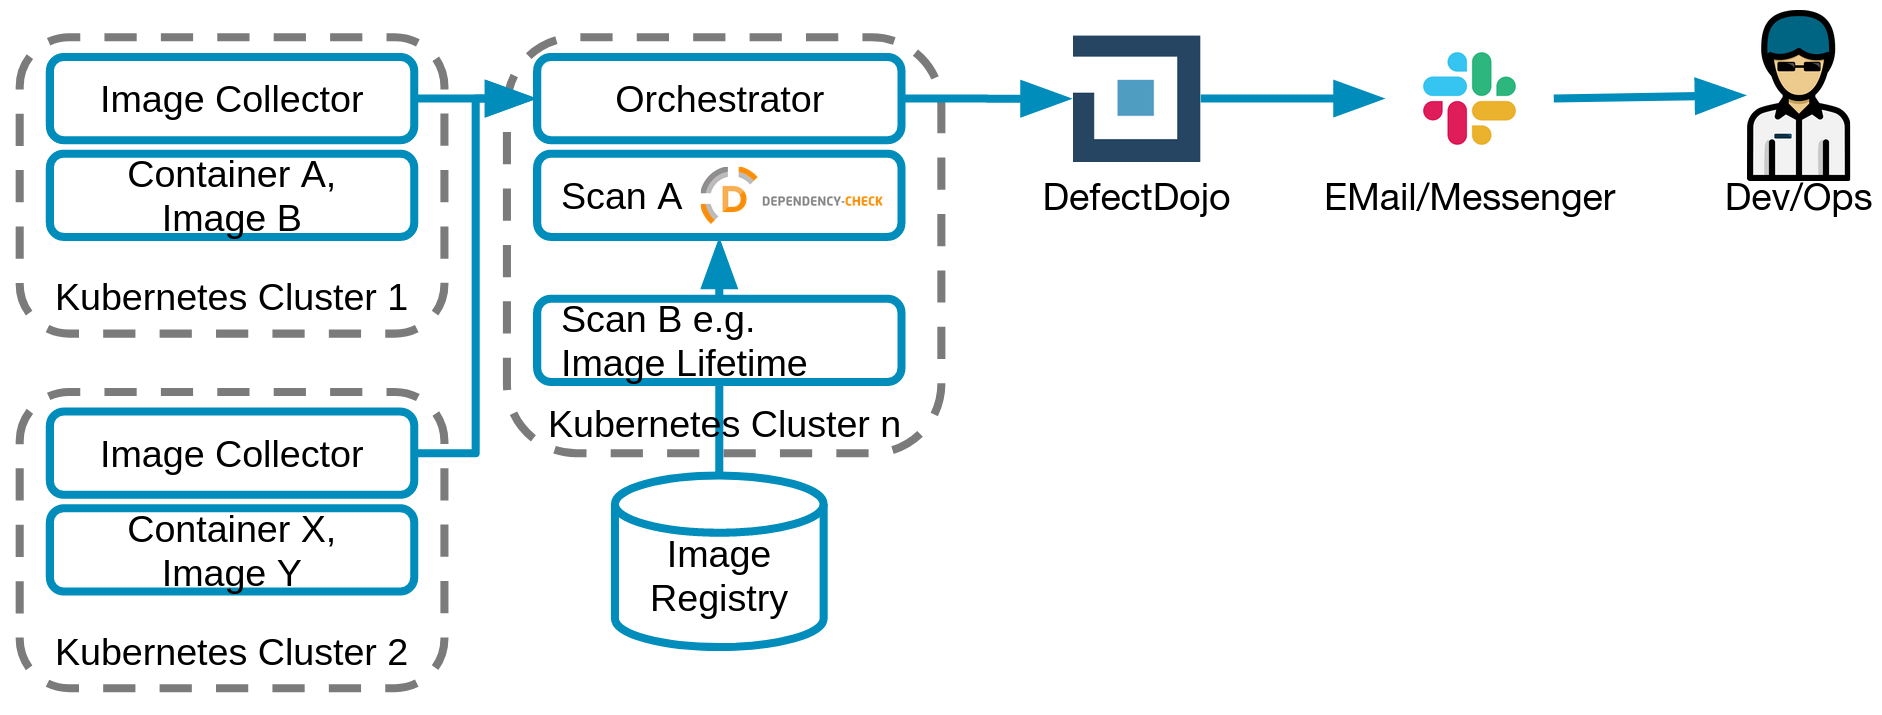
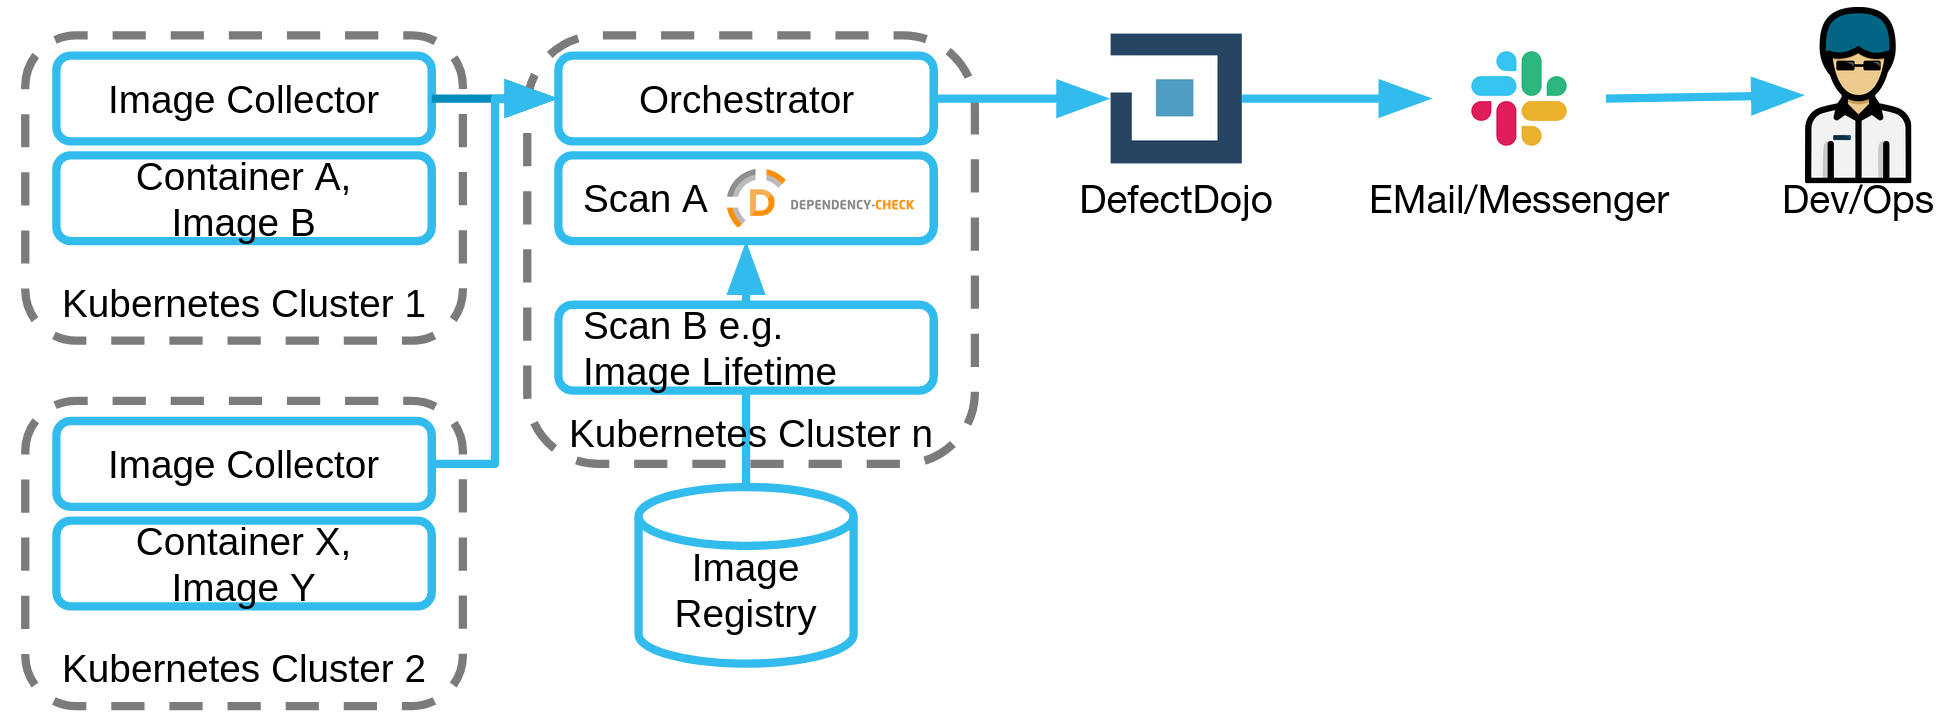
chore: Enhance documentation

diff --git a/README.md b/README.md
@@ -5,20 +5,41 @@
 Discover vulnerabilities and container image misconfiguration in production environments.
 
 # Introduction
-The Cluster Scanner detects images in a Kubernetes cluster and provides fast feedback based on various security tests. It is recommended to run the Cluster Scanner in production environments in order to get up-to-date feedback on security issues where they have real impact.
+The Cluster Scanner detects images in a Kubernetes cluster and provides fast feedback based on various security tests. It is recommended to run the Cluster Scanner in production environments in order to get up-to-date feedback on security issues where they have real impact.
 
 Since the Cluster Scanner itself is a service running within your Kubernetes cluster you can re-use your existing deployment procedures.
 # Overview
-In order to achieve an understanding of the cluster scanning process, this page uses a chart and detailed documentation to describe which factors are involved and in which way.
-1. The Image Collector, as the name suggests, collects the different images.
-2. These images can be passed to the Fetcher via the Cluster Scan, via the GitOps process, or manually. The Fetcher then converts the CSV files into JSON files and provides additional fields with information about clusters, teams and images.
-3. These files are kept in a separate directory and from there they are passed to the scanner.
-4. This scanner - which then receives the libraries to be ignored via the suppressions file - then executes the scans described in the definitions of Dependency Check, Lifetime, Virus and further more.
-5. The vulnerability management system (in our case [OWASP DefectDojo](https://github.com/DefectDojo/django-DefectDojo)) then collects the results and makes them available to the developers via Slack.
+The following figure provides an overview:
+![Overview](docs/images/overview.png)
+The following steps are conducted.
+1. The Image Collector, as the name suggests, collects the different images from a container environment like a kubernetes cluster. The Collector creates a JSON file and including information like the cluster, the responsible team, and image.
+2. The Orchestrator (implemented via ArgoWorkflows) starts the workflow periodically (e.g. nightly)
+3. The images from the Collector can be pulled by the Image Fetcher 
+4. These files are kept in a separate directory and from there they are passed to the scanner
+5. This scanner - which then receives the libraries to be ignored via the suppressions file - then executes the scans described in the definitions of Dependency Check, Lifetime, Virus and further more.
+6. The vulnerability management system (in our case [OWASP DefectDojo](https://github.com/DefectDojo/django-DefectDojo)) then collects the results 
+7. Non responded to findings are made available to the developers via a communication channel (Slack/Email).
+
 ## Table of Contents
 - [User documentation](docs/user)
 - [Architecture and Decisions](docs/architecture)
 - [Operator documentation](docs/deployment)
+
+# Images
+Images to be used by ArgoWorkflows are published in quay.io (2021-06-28):
+
+- `quay.io/sdase/clusterscanner-scan-dependency-check`
+- `quay.io/sdase/clusterscanner-scan-runasroot`
+- `quay.io/sdase/clusterscanner-scan-distroless`
+- `quay.io/sdase/clusterscanner-scan-lifetime`
+- `quay.io/sdase/clusterscanner-imagefetcher`
+- `quay.io/sdase/clusterscanner-notifier`
+- `quay.io/sdase/clusterscanner-imagecollector`
+- `quay.io/sdase/clusterscanner-image-source-fetcher`
+- `quay.io/sdase/clusterscanner-workflow-runner`
+- `quay.io/sdase/clusterscanner-notifier-slack`
+
+`quay.io/sdase/clusterscanner-base` is the base for other images.
 
 # Legal Notice
 The purpose of the ClusterScanner is not to replace the penetration testers or make them obsolete. We strongly recommend to run extensive tests by experienced penetration testers on all your applications.

diff --git a/docs/user/scans/README.md b/docs/user/scans/README.md
@@ -1,5 +1,3 @@
-The search for vulnerabilities has a very high priority in IT security. We use automated tools that perform scans to detect vulnerabilities and help to respond to findings.
-
 Software and infrastructure are potential points of attack. Such attacks can lead to damages, financial losses due to failures or recourse claims from customers, and more. There are various forms of investigations that protect against such threats. Manual searches for these vulnerabilities and points of attack require a great deal of effort and tie up staff in the execution. Automated scanning reduces effort and minimizes errors such as forgotten tests. The different types of scanning used, their significance, and possible reactions to the results are listed below.
 
 # Types of Scans
@@ -8,10 +6,9 @@ There are a number of different types of scans that can produce different findin
 - [Distroless](distroless.md)
 - [Image Lifetime](image-lifetime.md)
 - [Known Vulnerabilities](known-vulnerabilities.md)
-- [Malware](malware.md)
 - [Root-User](run-as-root.md)
 
-# Response to findings
+# Responses to Findings
 When a finding is detected, the first step is to perform an analysis. The following treatments can be used for this:
 
 - Avoidance: Remove the component with the threat/vulnerability.
@@ -19,4 +16,5 @@ When a finding is detected, the first step is to perform an analysis. The follow
 - Acceptance: Accept a vulnerability. In DefectDojo, the vulnerability needs to be manually marked as Accepted.
 - False Positive: The finding doesn't apply. In DefectDojo, the vulnerability can be manually marked as False Positive.
 
+Not all responses apply to all scans. In the scan descriptions, the possible responses are described.
 We use OWASP DefectDojo as vulnerability management system to combine the findings of different tools. All described, scans are implemented by the _Cluster Scanner_.

diff --git a/docs/architecture/collector.md b/docs/architecture/collector.md
@@ -1,16 +1,12 @@
 # ClusterScanner Image Collector
-The fetcher “ClusterScanner Image Collector” fetches images from a cluster. This page presents the collection process and the threat model of the process.
-
-The fetcher “ClusterScanner Image Collector” is deployed in a Kubernetes cluster and needs to have read access on all pods. Therefore, it has a high protection requirement and a threat model has been created.
+The _ClusterScanner Image Collector_ collectors images from a cluster.
 
 ## Solution Overview
 ![Overview](images/collector.png)
-The Cluster Scan Image Collector gets pods, parse the pod descriptions and, extracts namespaces and images, including image tags and hashes. Because mutable images (e.g. lastest) might be used, the image hash is gathered in case it is available. The image hash is not available for nonrunning cronjobs with history enabled. To get pods from within a container in a cluster, kubectl is used and defined in _entrypoint.bash_ like the following:
+The Cluster Scan Image Collector gets pods, parses the pod descriptions and, extracts namespaces and images, including image tags and hashes. Because mutable images (e.g. lastest) might be used, the image hash is gathered in case it is available. The image hash is not available for nonrunning cronjobs with history enabled. To get pods from within a container in a cluster, kubectl is used and defined in _entrypoint.bash_ like the following:
 ```
 kubectl get pods -A -o json
 ```
-
-The cluster scan pod needs to have a _ClusterRole_ with  read access to the resource pod. An example configuration is defined in the gitops-devops-tools cluster.
 
 The ClusterScanner Image Collector pushes the used images into the defined target repository. An example entry in the pushed flat JSON is documented in [Github](https://github.com/SDA-SE/cluster-scan-test-images/).
 

diff --git a/docs/user/configuration/README.md b/docs/user/configuration/README.md
@@ -42,12 +42,12 @@ app.kubernetes.io/version: "3.42.0" # defaults to image tag
 
 # Inheritance of annotations.
 The inheritance of overriding the parent annotations/configuration is pointed out in the following figure:
-![inheritance](inheritance.png =400x)
+![inheritance](inheritance.png)
 
 # Non-Deployment Configuration
-In case of a software development company like SDA SE, not all applications are self hosted. Some applications might be developed and shipped to the customer. The hosting in this case belongs to the customer.
+In case of a software development company, not all applications are self hosted. Some applications might be developed and shipped to the customer. The hosting in this case belongs to the customer.
 Assuming that the customer uses the latest released application image, we would like to test it.
 As a product team, there is the option to:
 * Deploy the latest released application image to a cluster which is scanned
 * Use a build server like Jenkins to update an image repository like depicted in the figure below
-![inheritance](latest-jenkins.png =400x)
+![NonDeploymentBuild](latest-jenkins.png)

diff --git a/images/process/imagecollector/README.md b/images/process/imagecollector/README.md
@@ -1,8 +1,1 @@
-# CentOS image with kubectl
-
-needed for cluster-scan
-
-# Contact: security team
-
-# Development
-`docker run -ti --user 1000 --volume $(pwd)/pods.bash:/pods.bash --volume $(pwd)/known_hosts:/.ssh/known_hosts --volume $(pwd)/entrypoint.bash:/entrypoint.bash  --env GIT_SSH_REPOSITORY_HOST --volume $(pwd)/git.bash:/git.bash --env GIT_SSH_REPOSITORY_HOST=github.com --env GIT_REPOSITORY_PATH="/wurstbrot/test" --volume /home/tpagel/.ssh/id_rsa:/.ssh/id_rsa quay.io/sdase/cluster-scan-image-collector:1`
+# ClusterScanner Image Collector

diff --git a/docs/architecture/README.md b/docs/architecture/README.md
@@ -1,8 +1,11 @@
 # Architecture
-The architecture is depicted in the following figure:
+The detailed architecture is depicted in the following dataflow diagram:
 ![archicture](images/technical.png)
 
-The Architectural Descisions are documented:
+The Fetcher is in detail documented in [Fetcher](fetcher.md).
+The Collector is in detail documented in [Collector](collector.md).
+
+The Architectural Decisions are documented:
 
 - [Orchestration](decisions/architecture-orchestration.md)
 - [Image Transfer](decisions/case-study-image-transfer.md)

diff --git a/docs/deployment/clusterscanner-image-collector.md b/docs/deployment/clusterscanner-image-collector.md
@@ -1,2 +1,4 @@
 # Cluster Scan Image Collector
-See architecture/collector.md
+The _ClusterScanner Image Collector_ is deployed in a Kubernetes cluster and needs to have read access on all pods.
+
+The ClusterScanner Orchestrator needs to have a _ClusterRole_ with  read access to the resource pod.
